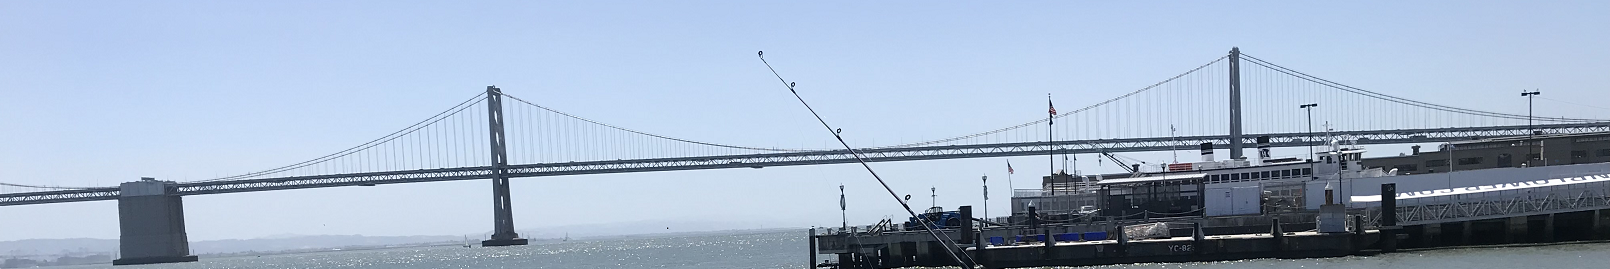
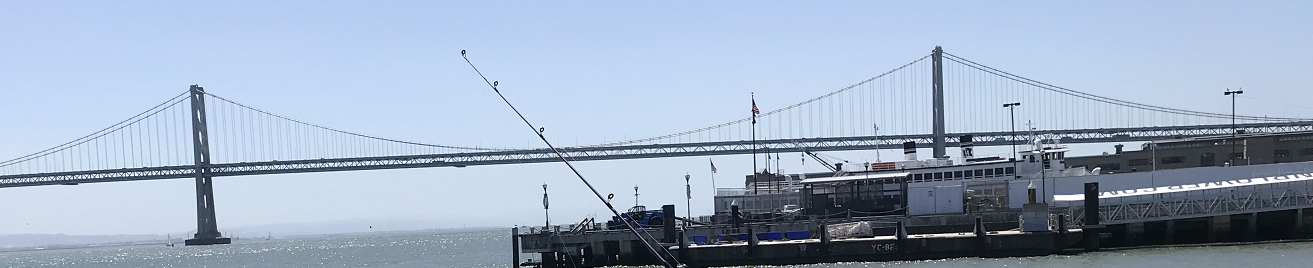
Updated CSS

diff --git a/contacts/user_contacts/templates/layout.html b/contacts/user_contacts/templates/layout.html
@@ -2,6 +2,7 @@
 <html lang="en-US">
     <head>
         <meta charset="UTF-8">
+        <meta name="viewport" content="width=device-width, initial-scale=1.0">
         <title>Home - Demo App</title>
         <link rel="stylesheet" id="ample-style-css" href="{% static 'css/style.css' %}" type="text/css" media="all">
         <link rel='icon' href="{% static 'images/python.ico' type='image/x-icon' %}"/ >
@@ -24,9 +25,13 @@
                         </div>
 <!-- navigation menu Start -->
 <div class="main-navigation">
+<!--
+<label for="toggle">&#9776;</label>
+<input type="checkbox" id="menu-toggle"/>
+-->
 <ul class="menu">
     <li><a href="/">Home</a></li>
-    <li><a href="#">Services</a></li>
+    <li><a href="#">Reference</a></li>
     <li><a href="#">Docs</a></li>
     <li><a href="#">Downloads</a></li>
     <li>
@@ -42,12 +47,12 @@
             </li>
         </ul>
     </li>
-    <li><a href="/all">Contacts</a></li>
+    <li><a href="/all">Contact</a></li>
 </ul>
 </div>
 <!-- navigation menu End -->
                     </div>
-                    <img src="{% static 'images/bay_bridge_banner.png' %}" alt="Quantum Computing">
+                    <img class="header-image" src="{% static 'images/bay_bridge_banner.png' %}" alt="Quantum Computing">
                 </div>
             </header>
             <div class="main-wrapper">
